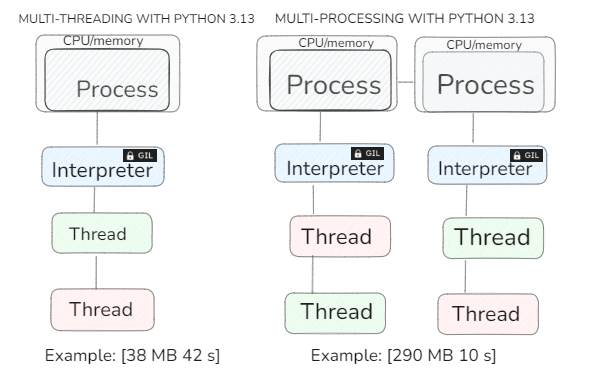
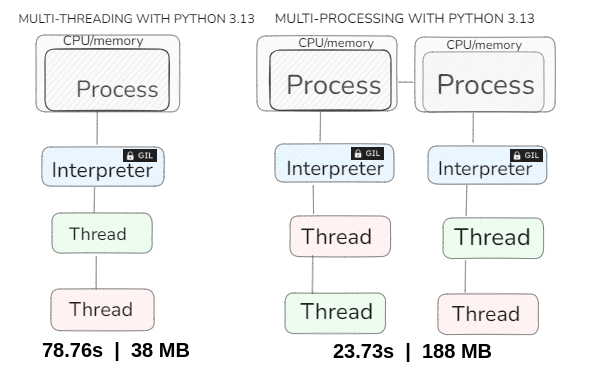
benchmark results on presentation

Changed region(s): [[0.5186, 0.9216, 0.8542, 0.9811], [0.061, 0.9216, 0.3966, 0.9811]]

diff --git a/pycon-presentation/index.html b/pycon-presentation/index.html
@@ -771,7 +771,8 @@
 
       <section>
       <section>
-        <h4>Web server tests summary</h4>
+        <h4>Web server benchmark results</h4>
+        <h6>Linux version 6.8.0-45-generic, CPUs=4, Flask, fibonacci(n=34)</h6>
         <div style="width: 50%; float:left; font-size: 0.9em;">
         <img data-src="_assets\_images\app1.png" />
         </div>

diff --git a/applications/web_server/benchmarks/3.13.0_20241011.md b/applications/web_server/benchmarks/3.13.0_20241011.md
@@ -169,3 +169,26 @@ INFO: 40 tasks executed in 45.66s
 INFO: Memory usage per PID: {28429: 45.75}
 INFO: Overall memory usage: 45.75 [MB]
 ```
+
+# Sum up
+
+## multi-threading
+```
+78.76s
+38 MB
+```
+## multi-processing
+```
+23.73s
+188 MB
+```
+## subinterpreters
+```
+23.48s
+~40 MB*
+```
+## free-threading
+```
+45.23s
+46 MB
+```
